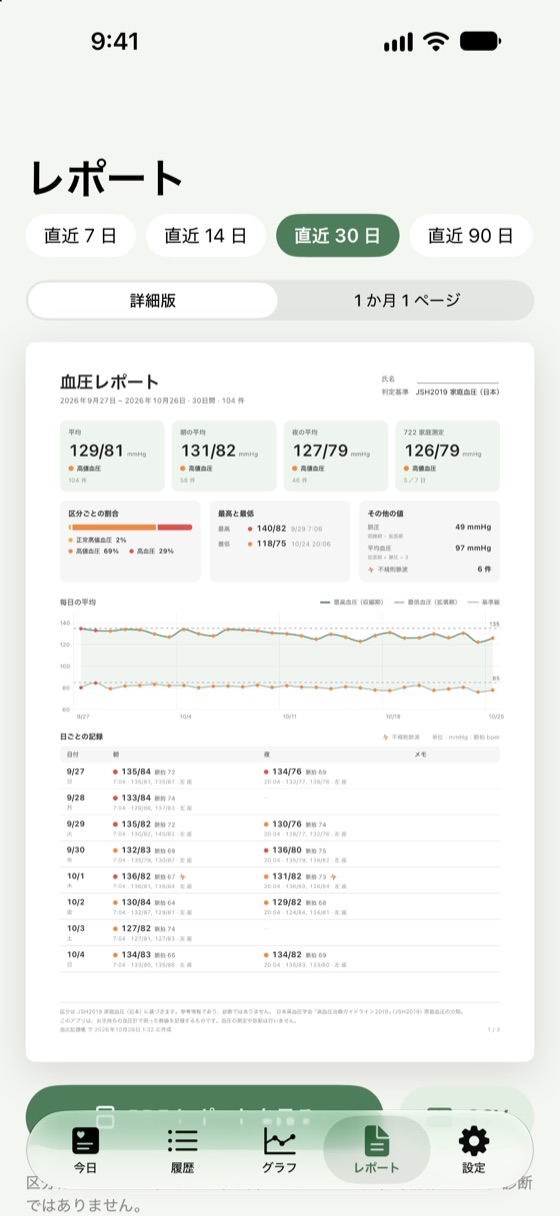
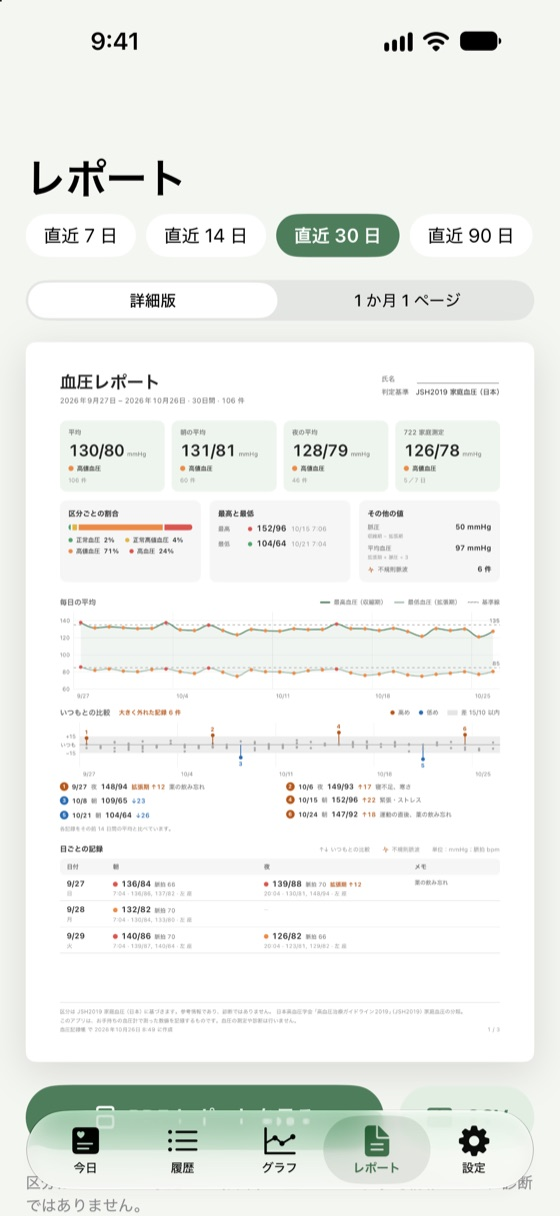
Publish bplog from app-factory 653d15d

diff --git a/bplog/ja/privacy/index.html b/bplog/ja/privacy/index.html
@@ -33,7 +33,7 @@
 <p>このポリシーは、個人開発者 厲燕山（LI YAN-SHAN） が提供する iPhone アプリ「血圧記録帳」（以下「本アプリ」）に適用されます。</p>
 
 <h2>iPhone に保存されるデータ</h2>
-<p>本アプリに記録した血圧、脈拍、測定日時と時間帯、タグ（腕、姿勢、食前・食後、使った血圧計）、メモ、記録する人の名前、リマインダー、設定は、iPhone 内の本アプリの保存領域にだけ保存されます。本アプリはこの iPhone の中に 1 日 1 回自動でバックアップを作り、14 日間保持します。</p>
+<p>本アプリに記録した血圧、脈拍、測定日時と時間帯、タグ（腕、姿勢、食前・食後、使った血圧計）、いつもと大きく違うときに選んだ状況、メモ、記録する人の名前、リマインダー、設定は、iPhone 内の本アプリの保存領域にだけ保存されます。本アプリはこの iPhone の中に 1 日 1 回自動でバックアップを作り、14 日間保持します。</p>
 <p>iCloud バックアップやコンピュータへのバックアップを有効にしている場合、これらのデータは iOS の設定に従って、あなた自身の端末バックアップに含まれます。私たちがあなたの iPhone やバックアップにアクセスすることはできません。</p>
 
 <h2>Apple ヘルスケア</h2>
@@ -81,7 +81,7 @@
 
 <h2>お問い合わせ</h2>
 <p>厲燕山（LI YAN-SHAN）：<a href="mailto:boundless2@protonmail.com">boundless2@protonmail.com</a></p>
-<p class="updated">最終更新日：2026年10月24日</p>
+<p class="updated">最終更新日：2026年10月26日</p>
 </article>
 </main>
 <footer class="site">

diff --git a/bplog/zh-Hant/privacy/index.html b/bplog/zh-Hant/privacy/index.html
@@ -33,7 +33,7 @@
 <p>iPhone App「血壓紀錄簿」（以下稱本 App），由個人開發者 厲燕山（LI YAN-SHAN） 提供。</p>
 
 <h2>存在你 iPhone 上的資料</h2>
-<p>你在本 App 記下的血壓、脈搏、量測時間和時段、標籤（手臂、姿勢、飯前飯後、使用的血壓計）、備註、家人的名稱、提醒和設定，都只存在你 iPhone 上本 App 的儲存空間。本 App 每天會在這支 iPhone 上自動保留一份備份，保存 14 天。</p>
+<p>你在本 App 記下的血壓、脈搏、量測時間和時段、標籤（手臂、姿勢、飯前飯後、使用的血壓計）、和平常差很多時勾選的可能原因、備註、家人的名稱、提醒和設定，都只存在你 iPhone 上本 App 的儲存空間。本 App 每天會在這支 iPhone 上自動保留一份備份，保存 14 天。</p>
 <p>如果你開啟了 iCloud 備份或用電腦備份 iPhone，這些資料會依 iOS 的設定包含在你自己的裝置備份裡。我們無法存取你的 iPhone 或你的備份。</p>
 
 <h2>Apple 健康</h2>
@@ -81,7 +81,7 @@
 
 <h2>聯絡我們</h2>
 <p>厲燕山（LI YAN-SHAN）：<a href="mailto:boundless2@protonmail.com">boundless2@protonmail.com</a></p>
-<p class="updated">最後更新：2026 年 10 月 24 日</p>
+<p class="updated">最後更新：2026 年 10 月 26 日</p>
 </article>
 </main>
 <footer class="site">

diff --git a/bplog/en/privacy/index.html b/bplog/en/privacy/index.html
@@ -33,7 +33,7 @@
 <p>This policy covers the iPhone app BP Notebook (the app), made by the independent developer LI YAN-SHAN.</p>
 
 <h2>Data kept on your iPhone</h2>
-<p>The blood pressure, pulse, time and time of day, tags (arm, posture, before or after a meal, which monitor), notes, names of the people you record for, reminders and settings you enter are kept only in the app's storage on your iPhone. The app keeps one automatic backup a day on the same iPhone for 14 days.</p>
+<p>The blood pressure, pulse, time and time of day, tags (arm, posture, before or after a meal, which monitor), the reasons you tick when a reading is far from usual, notes, names of the people you record for, reminders and settings you enter are kept only in the app's storage on your iPhone. The app keeps one automatic backup a day on the same iPhone for 14 days.</p>
 <p>If you use iCloud Backup or back up your iPhone to a computer, this data is included in your own device backup as iOS is set up to do. We have no access to your iPhone or your backups.</p>
 
 <h2>Apple Health</h2>
@@ -81,7 +81,7 @@
 
 <h2>Contact</h2>
 <p>LI YAN-SHAN: <a href="mailto:boundless2@protonmail.com">boundless2@protonmail.com</a></p>
-<p class="updated">Last updated: October 24, 2026</p>
+<p class="updated">Last updated: October 26, 2026</p>
 </article>
 </main>
 <footer class="site">

diff --git a/bplog/ja/support/index.html b/bplog/ja/support/index.html
@@ -64,7 +64,7 @@
 <article class="feature">
 <span class="tile"><svg viewBox="0 0 24 24" fill="none" stroke="currentColor" stroke-width="1.8" stroke-linecap="round" stroke-linejoin="round" aria-hidden="true"><path d="M7 3h7l4 4v12a2 2 0 0 1-2 2H7a2 2 0 0 1-2-2V5a2 2 0 0 1 2-2z"/><path d="M14 3v4h4M8.5 16.5l2.5-3 2 2 3-4"/></svg></span>
 <h3>医師に見せるレポート</h3>
-<p>平均・区分・最高と最低・グラフ・日ごとの記録を PDF にまとめ、受診のときにそのまま見せられます。</p>
+<p>平均・区分・最高と最低・グラフ・日ごとの記録を PDF に。いつもより大きく上下した日は、記録した状況（コーヒー、寝不足など）と一緒に示すので、受診のときにそのまま見せられます。</p>
 </article>
 <article class="feature">
 <span class="tile t3"><svg viewBox="0 0 24 24" fill="none" stroke="currentColor" stroke-width="1.8" stroke-linecap="round" stroke-linejoin="round" aria-hidden="true"><path d="M4 20h16M5 15.5l4-5 4 3 6-7"/></svg></span>

diff --git a/bplog/zh-Hant/support/index.html b/bplog/zh-Hant/support/index.html
@@ -64,7 +64,7 @@
 <article class="feature">
 <span class="tile"><svg viewBox="0 0 24 24" fill="none" stroke="currentColor" stroke-width="1.8" stroke-linecap="round" stroke-linejoin="round" aria-hidden="true"><path d="M7 3h7l4 4v12a2 2 0 0 1-2 2H7a2 2 0 0 1-2-2V5a2 2 0 0 1 2-2z"/><path d="M14 3v4h4M8.5 16.5l2.5-3 2 2 3-4"/></svg></span>
 <h3>給醫師看的報告</h3>
-<p>平均、分級、最高最低、趨勢圖和每天的紀錄整理成 PDF，回診時直接給醫師看。</p>
+<p>平均、分級、最高最低、趨勢圖和每天的紀錄整理成 PDF。比平常高或低很多的那幾天，連同你記下的情況（喝了咖啡、沒睡好…）都會標出來，回診時直接給醫師看。</p>
 </article>
 <article class="feature">
 <span class="tile t3"><svg viewBox="0 0 24 24" fill="none" stroke="currentColor" stroke-width="1.8" stroke-linecap="round" stroke-linejoin="round" aria-hidden="true"><path d="M4 20h16M5 15.5l4-5 4 3 6-7"/></svg></span>

diff --git a/bplog/en/support/index.html b/bplog/en/support/index.html
@@ -64,7 +64,7 @@
 <article class="feature">
 <span class="tile"><svg viewBox="0 0 24 24" fill="none" stroke="currentColor" stroke-width="1.8" stroke-linecap="round" stroke-linejoin="round" aria-hidden="true"><path d="M7 3h7l4 4v12a2 2 0 0 1-2 2H7a2 2 0 0 1-2-2V5a2 2 0 0 1 2-2z"/><path d="M14 3v4h4M8.5 16.5l2.5-3 2 2 3-4"/></svg></span>
 <h3>A report for your doctor</h3>
-<p>Averages, levels, highest and lowest, a chart and every reading in one PDF, ready to show your doctor.</p>
+<p>Averages, levels, highest and lowest, a chart and every reading in one PDF. Days far from your usual are marked with what you noted, like coffee or poor sleep.</p>
 </article>
 <article class="feature">
 <span class="tile t3"><svg viewBox="0 0 24 24" fill="none" stroke="currentColor" stroke-width="1.8" stroke-linecap="round" stroke-linejoin="round" aria-hidden="true"><path d="M4 20h16M5 15.5l4-5 4 3 6-7"/></svg></span>

diff --git a/bplog/ja/terms/index.html b/bplog/ja/terms/index.html
@@ -65,7 +65,7 @@
 
 <h2>9. お問い合わせ</h2>
 <p>厲燕山（LI YAN-SHAN）：<a href="mailto:boundless2@protonmail.com">boundless2@protonmail.com</a></p>
-<p class="updated">最終更新日：2026年10月24日</p>
+<p class="updated">最終更新日：2026年10月26日</p>
 </article>
 </main>
 <footer class="site">

diff --git a/bplog/zh-Hant/terms/index.html b/bplog/zh-Hant/terms/index.html
@@ -65,7 +65,7 @@
 
 <h2>9. 聯絡我們</h2>
 <p>厲燕山（LI YAN-SHAN）：<a href="mailto:boundless2@protonmail.com">boundless2@protonmail.com</a></p>
-<p class="updated">最後更新：2026 年 10 月 24 日</p>
+<p class="updated">最後更新：2026 年 10 月 26 日</p>
 </article>
 </main>
 <footer class="site">

diff --git a/bplog/en/terms/index.html b/bplog/en/terms/index.html
@@ -65,7 +65,7 @@
 
 <h2>9. Contact</h2>
 <p>LI YAN-SHAN: <a href="mailto:boundless2@protonmail.com">boundless2@protonmail.com</a></p>
-<p class="updated">Last updated: October 24, 2026</p>
+<p class="updated">Last updated: October 26, 2026</p>
 </article>
 </main>
 <footer class="site">
